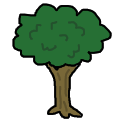
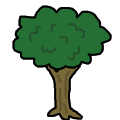
Save

diff --git a/src/theme/scenes/main/sub/first_person_view/first_person_view.cpp b/src/theme/scenes/main/sub/first_person_view/first_person_view.cpp
@@ -150,7 +150,7 @@ namespace Forradia
             auto base_x{tile_left + static_cast<float>(x_pos) /
                                         tile_units_width * tile_width};
             auto base_y{0.75f + k_margin_.y +
-                        static_cast<float>(y_pos) / tile_units_width *
+                        static_cast<float>(y_pos + 1) / tile_units_width *
                             (0.25f - 2 * k_margin_.y)};
 
             auto image_x{base_x - image_width / 2.0f};

diff --git a/src/theme/scenes/world_generation/sub/world_generator.cpp b/src/theme/scenes/world_generation/sub/world_generator.cpp
@@ -44,7 +44,7 @@ namespace Forradia
         auto world_area{_<world>().current_world_area_};
         auto size{world_area->get_size()};
 
-        auto num_dirt_patches{20 + rand() % 10};
+        auto num_dirt_patches{15 + rand() % 8};
 
         for (auto i = 0; i < num_dirt_patches; i++)
         {
